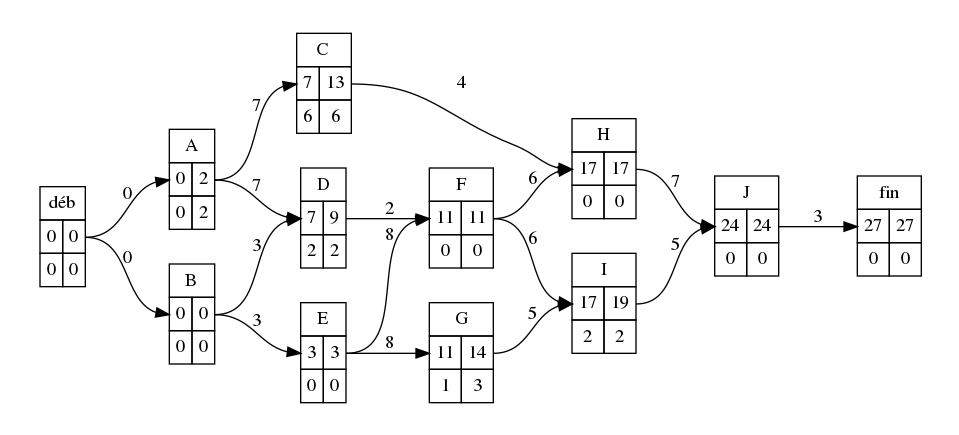
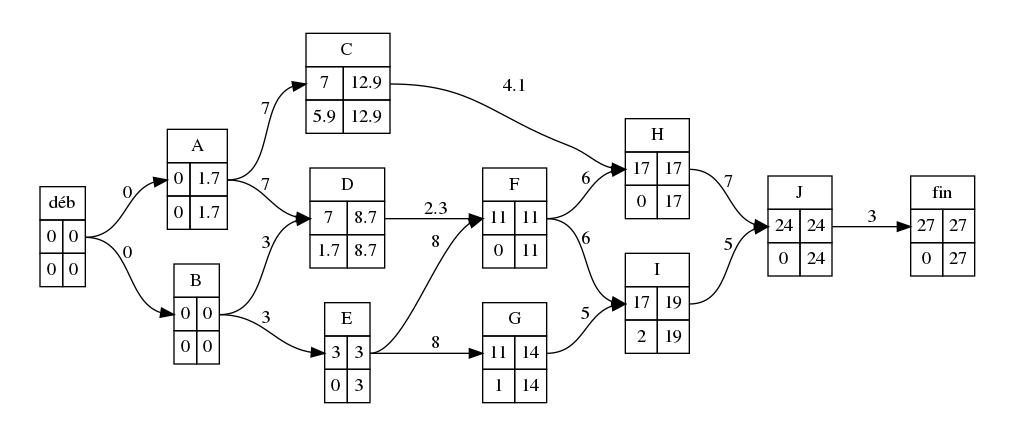
pondérations float compliant.

diff --git a/grapheMPM/__init__.py b/grapheMPM/__init__.py
@@ -1,4 +1,4 @@
-from numpy import matrix, prod
+from numpy import matrix, prod, float_, round, floor
 from graphviz import Digraph
 from lxml import etree
 
@@ -11,7 +11,7 @@ class noeud():
         ml: marge libre
         mt: marge totale
 
-        :param presentation: in [1,2] choisir 1: ml sur mt, 2: ml -mt côte
+        :param presentation: in [1,2] choisir 1: ml sur mt, 2: ml-mt côte
              à côte
         :type presentation: int
         """
@@ -24,6 +24,7 @@ class noeud():
 
     def setdata(self,**kwargs):
         """mettre à jour les données du noeud
+        les paramètres doivent être de type str
         """
         self.data.update(kwargs)
         E = etree.Element("TABLE")
@@ -94,10 +95,14 @@ class GrapheMPM():
              à côte
         :type presentation: int
         """
+        # calcul du nombre de chiffres max après la virgule pour arrondir
+        # ensuite
+        self.prec=max([len(str(v).partition(".")[2]) for v in pond.values()])
+        self.ponderation = dict([(k, self._nb(str(e))) for k,e in pond.items()])
+        
         if succ:
             self.successeurs = succ
             # sommets: set(succ.keys())
-            self.ponderation = pond
             self.sommets = {}
             for k in succ.keys():
                 self.sommets[k] = noeud(k,presentation=presentation)
@@ -118,7 +123,6 @@ class GrapheMPM():
         elif pred:
             self.predecesseurs = pred
             # sommets: set(succ.keys())
-            self.ponderation = pond
             self.sommets = {}
             for k in pred.keys():
                 self.sommets[k] = noeud(k,presentation=presentation)
@@ -185,20 +189,36 @@ class GrapheMPM():
         D1 = [ (self.num_sommets[k], v) for k,v in D.items()]
         self.niveaux = dict(D1)
         
-    def col_is_null(self,M, i):
+    def col_is_null(self, M, i):
         """la colonne i de M est-elle nulle?"""
         return sum(M[:,i])==0
 
+    def _nb(self, s):
+        """convertir la chaîne de caractère s en nombre int ou float
+        si s contient un . on renvoie un numpy.float_ sinon un int
+        """
+        return (float_(s) if "." in s else int(s))
+
+    def _pretty(self, n):
+        """convertir un nombre n en string selon qu'il soit int ou float_
+        en tenant compte de la précision calculée dans self.prec dans __init__
+        """
+        if n==floor(n): # n est int
+            return str(n)
+        else:
+            return str(round(n, self.prec))
+    
     def earliestdate(self):
         """màj des données de ed des nœuds"""
         Ltmp = list(self.niveaux.items())
         L = sorted(Ltmp, key=lambda e:e[1]) # tri sur niveau
         for s,n in L:
             # on ajoute le poids de la tâche précédente e
-            poids_pred = [int(self.sommets[e].data["ed"])+self.ponderation[e]
+            poids_pred = [self._nb(self.sommets[e].data["ed"])
+                          +self.ponderation[e]
                           for e in self.predecesseurs[s]]
             m = (max(poids_pred) if len(poids_pred)>0 else 0)
-            self.sommets[s].setdata(ed=str(m))
+            self.sommets[s].setdata(ed=self._pretty(m))
 
     def latestdate(self):
         """màj des données de ld des nœuds, à faire après earliestdate()
@@ -208,17 +228,19 @@ class GrapheMPM():
         L.reverse() # en ordre décroissant
         for s,n in L:
             # on soustrait le poids de la tâche actuelle s
-            poids_suc = [int(self.sommets[e].data["ld"])-self.ponderation[s]
+            poids_suc = [self._nb(self.sommets[e].data["ld"])
+                         -self.ponderation[s]
                          for e in self.successeurs[s]]
             ld = (min(poids_suc) if len(poids_suc)>0 else
-                  self.sommets[s].data["ed"])
-            self.sommets[s].setdata(ld=str(ld))
+                  self._nb(self.sommets[s].data["ed"]))
+            self.sommets[s].setdata(ld=self._pretty(ld))
             # on en profite pour faire la marge libre
-            tmp =[int(self.sommets[e].data["ed"])-self.ponderation[s]\
-                  -int(self.sommets[s].data["ed"])
+            tmp =[self._nb(self.sommets[e].data["ed"])-self.ponderation[s]\
+                  -self._nb(self.sommets[s].data["ed"])
                       for e in self.successeurs[s]]
             ml = (min(tmp) if len(tmp)>0 else 0) #self.sommets[s].data["ed"]
             #marge totale
-            mt = int(self.sommets[s].data["ld"])-int(self.sommets[s].data["ed"])
-            self.sommets[s].setdata(mt=str(mt), ml=str(ml))
+            mt = self._nb(self.sommets[s].data["ld"])
+            -self._nb(self.sommets[s].data["ed"])
+            self.sommets[s].setdata(mt=self._pretty(mt), ml=self._pretty(ml))
 

diff --git a/setup.py b/setup.py
@@ -14,7 +14,7 @@ setup(
     # Versions should comply with PEP440.  For a discussion on single-sourcing
     # the version across setup.py and the project code, see
     # https://packaging.python.org/en/latest/single_source_version.html
-    version="0.3.3",
+    version="0.4",
     description="a bunch of classes to generate MPM graphs",
     long_description=long_description,
 

diff --git a/README.md b/README.md
@@ -27,6 +27,8 @@ dépendances:
 Illustration de principe:
 =========================
 
+**Nouveau (v>=0.4)**: Les poids peuvent être des décimaux.
+
 On créée un objet `GrapheMPM` à l'aide d'un dictionnaire des successeurs ou des prédecesseurs et un dictionnaire des pondérations.
 
 ```python
@@ -36,7 +38,7 @@ from grapheMPM import GrapheMPM
 p = {"déb":"", "A":['déb'], "B":['déb'], "C": "A", "D": "AB", "E":"B",
 "F":"DE", "G": "E", "H":"CF", "I":"FG", "J": "HI", "fin": "J"}
 # dico des pondérations
-w = {"déb": 0, "fin": 0,"A": 7, "B": 3, "C": 4, "D": 2, "E": 8,
+w = {"déb": 0, "fin": 0,"A": 7, "B": 3, "C": 4.1, "D": 2.3, "E": 8,
 "F": 6, "G": 5, "H": 7, "I": 5, "J": 3}
 G = GrapheMPM(pred=p, pond=w)
 G.setlevel()
@@ -83,13 +85,13 @@ d'archive **wheel**)
 
 L'installateur pip veillera à installer les dépendances.
 
-Pour windows::
+Pour windows:
 
 ```
 py -3 -m pip install \chemin\vers\grapheMPM-xxx-py3-none-any.whl
 ```
 
-Pour linux::
+Pour linux:
 
 ```
 sudo pip3 install  /chemin/vers/grapheMPM-xxx-py3-none-any.whl
